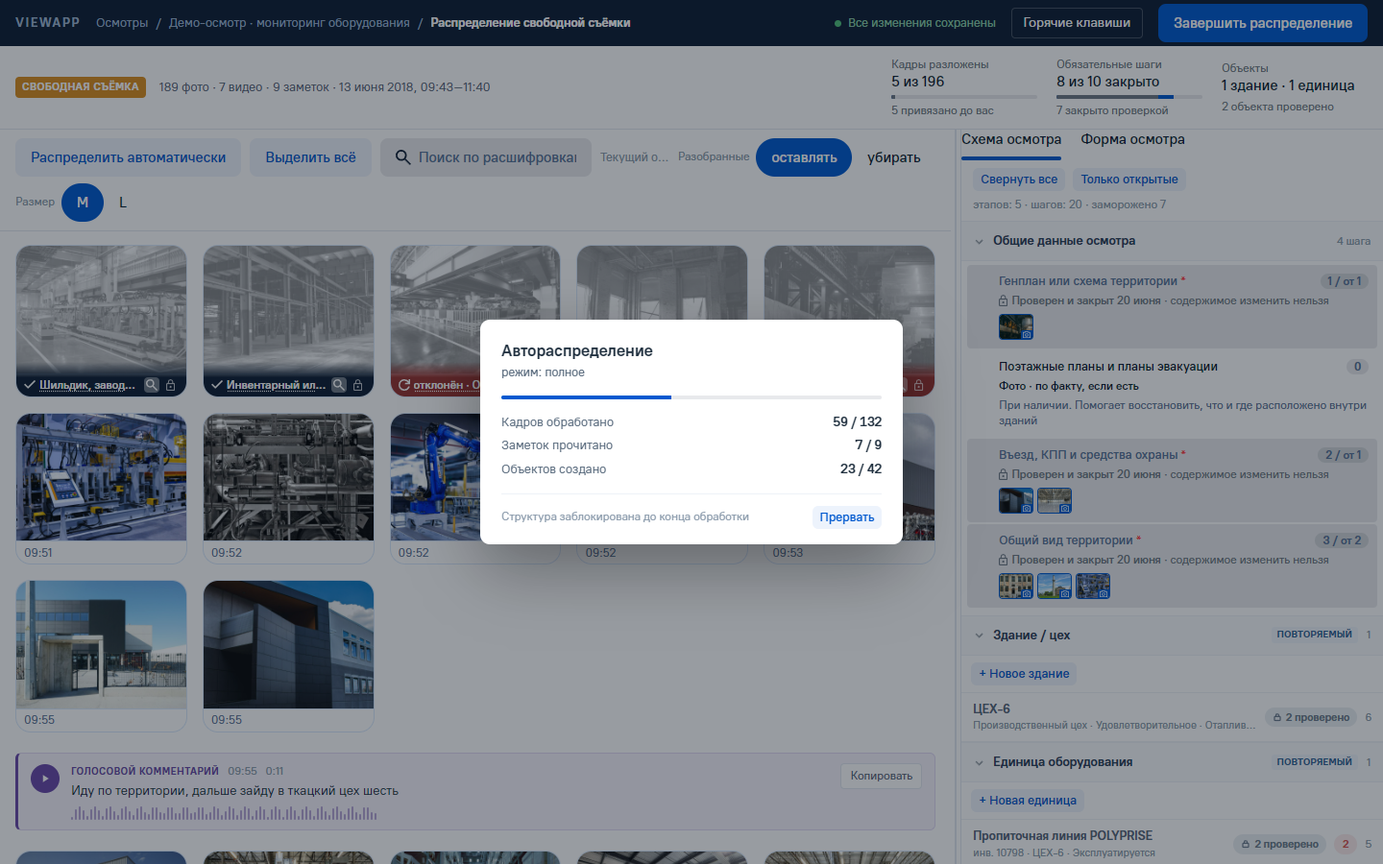
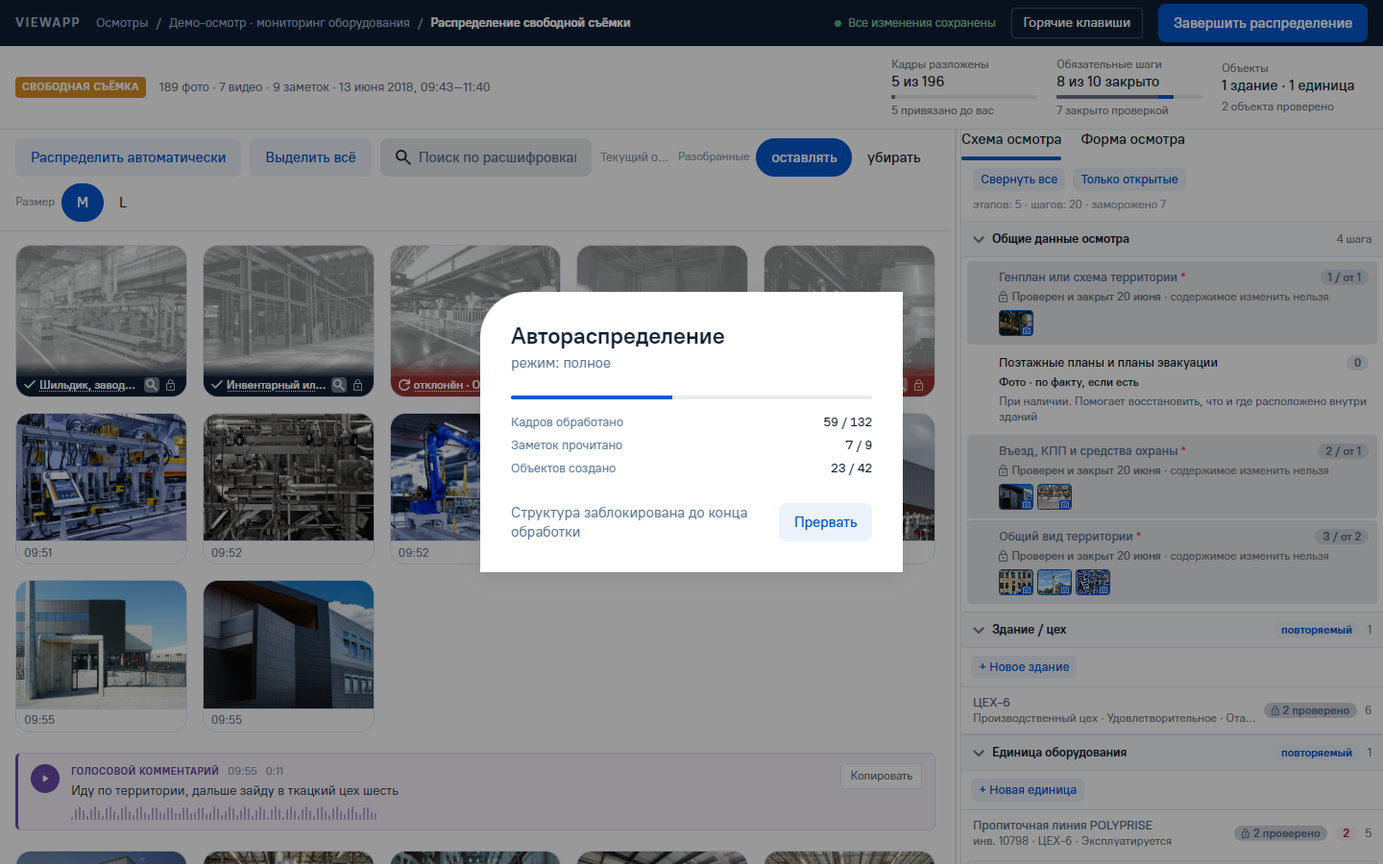
Такт 35, часть 2: документы — итог сборки ModalCard, реестр, решения, состояние
- free-shoot.md: 13.10 — итог сборки, отклонения, приёмка, край против
  замеров кита 1; реестр: № 51, 57 на ките — китом 33, как есть 25;
  рекомендация — форма повтора № 56.
- modal-family.md: решения 1–4 закрыты, Sheet — краевое размещение
  ModalCard; открыто решение 5 и наложение 817:34525.
- open-questions.md: вопрос 35 закрыт; журнал — три решения.
- figma-fixes.md: центральное размещение карточки, подложка и прокрутка,
  фокус у ButtonAction, Kbd; design-debt.md, waves.md, naming.md,
  tokens.md, CLAUDE.md — по решениям.
- chat-protocol.md, handoff.md: такт 35 закрыт; такт 29, часть 2 — стенд
  «История» на ModalCard edge; развилка — форма повтора или «История».
- Скриншоты: free-shoot-pair-modal-*, -states-modal-*, -page-open-progress,
  -page-open-hotkeys, -focus-*-ButtonAction.

diff --git a/docs/chat-protocol.md b/docs/chat-protocol.md
@@ -142,7 +142,7 @@
 
 ---
 
-## Состояние проекта (актуально на 2026-09-24, после тактов 19–28, разбора 29, часть 1, тактов 30–34 и такта 35 — кольцо фокуса и разбор центрального окна)
+## Состояние проекта (актуально на 2026-09-24, после тактов 19–28, разбора 29, часть 1, и тактов 30–35)
 
 ### Проект
 
@@ -150,14 +150,15 @@
 (всё запушено). Nuxt 4 · Tailwind v4 · shadcn-vue поверх Reka UI.
 Перенос ДС Атома завершён: 9 волн, 41 компонент; темы `rososmotr`
 (рабочая) и `atom` (сверочная); `/compare` — наложение на эталоны и
-две автопроверки, базовая линия **153 иконки, 819 текстовых узлов**
-(такт 34 поднял со 146 / 746). Этап 2 обогащения закрыт: полевая обвязка и
+две автопроверки, базовая линия **154 иконки, 886 текстовых узлов**
+(такт 35 поднял со 153 / 819). Этап 2 обогащения закрыт: полевая обвязка и
 `StatusBadge` из архива кита 1, `Chip`, `Slider`, `Dialog`, `Lightbox`,
 `Popover` на Reka (такт 28). Такт 30 добавил три составных компонента
 экрана свободной съёмки без мастера: `FrameTile`, `StepRow` + `StepThumb`,
 `Progress` + `ProgressStat`; такт 32 — `StageSection`, `StageNote`, `RepeatCard`, `RepeatForm`; такт 33 —
 `AssignOption`, `AssignList` (пункт назначения на `SelectItem`); такт 34 — `FrameStage`, `FrameBindBar`, `FrameMeta`,
-`FrameStatus`, слот `aside` у `Lightbox`, тон `success` у `SelectItem`. Долг на дефолте shadcn по `design-debt.md` —
+`FrameStatus`, слот `aside` у `Lightbox`, тон `success` у `SelectItem`; такт 35 — окно-карточка `ModalCard` (размещения
+`edge` = `Sheet` и `center`), `Kbd`, `ShortcutList`, `ProgressCounter`, кольцо фокуса у всех четырёх кнопок кита. Долг на дефолте shadcn по `design-debt.md` —
 `Toast`, `Skeleton`, `Stepper`, `Empty` (собраны, несут `@debt`),
 `Command`/`Combobox` (в коде не собран — строка описывает дыру); `Progress`
 закрыт частично тактом 30 — собран по прототипу VA-9265, мастера нет.
@@ -327,6 +328,9 @@
 - **Решений владельцу 5**: архитектура (`Sheet` отдельно, общее — поведенческий слой);
   подложка; полоса прокрутки (`Scroll` кита 4px); высота кнопок подвала (40 из `Button`);
   стенд части 2 («История» через `?open=history`, нужен перенос `sort`).
+- **С такта 35 решения 1–4 закрыты** (`Sheet` — краевое размещение `ModalCard`, собран). **Такт 29, часть 2
+  теперь — стенд «История» на `ModalCard edge`**: одно решение владельца (`modal-family.md`, раздел 7, решение 5)
+  и Figma MCP для наложения на `817:34525`.
 
 ### Такт 30 — экран «Распределение свободной съёмки» (закрыт)
 
@@ -464,7 +468,7 @@
   на защищённой плашке, метка в полосе), видео картинкой, сноска про архив не переносится, перенос (№ 47) —
   событие наружу.
 
-### Такт 35 — кольцо фокуса у кнопок, разбор центрального окна (стоп-точка)
+### Такт 35 — кольцо фокуса, окно-карточка `ModalCard`, окна прогресса и клавиш (закрыт)
 
 Решения владельца 2026-09-23 (бывшие п. 1–2 «Открыто у владельца»): кольцо фокуса у `Button`, `IconButton`,
 `ButtonArrow` и следующий такт — разбор центрального окна. Разбор — `docs/free-shoot.md`, раздел 13.
@@ -477,6 +481,11 @@
   окно прокручивается целиком, крестика нет, прогресс не закрывается ничем, кроме «Прервать». У кита 1
   центрального размещения нет. Рекомендация — окно-карточка кита 1 `ModalCard` в двух размещениях (`side` —
   это `Sheet` такта 29, `center`) и общие развилки с `Sheet` одним решением. План переноса окон — 4 такта.
+- **Часть 2 — сборка.** Три решения владельца 2026-09-23 по рекомендации (бывшие п. 1–2 «Открыто у владельца»):
+  `ModalCard` в двух размещениях, скругление 48 в обоих; подложка `--overlay-modal` 40%, прокрутка тела `Scroll`
+  4px, кнопки 40 (вопрос 35 закрыт); кольцо у `ButtonAction`. Окна прогресса (№ 51) и «Горячие клавиши» (№ 57)
+  на ките; реестр — китом **33**, как есть **25**. Край против замеров кита 1 — совпадение по всем числам
+  (`free-shoot.md`, 13.10). `/compare` — 154 / 886, провалов нет.
 
 ### Второй конвейер
 
@@ -514,7 +523,7 @@
 
 ### Следующие такты нашего конвейера (по порядку)
 
-1. **Решения владельца по такту 35** — «Открыто у владельца», п. 1; затем сборка каркаса `ModalCard` с прогрессом и клавишами (план — `free-shoot.md`, 13.7).
+1. **Выбор владельца** — «Открыто у владельца», п. 1 (форма повтора № 56 или стенд «История» на `ModalCard edge`).
 2. **Стенд «форма справочника»** — статусная модель: повторяющиеся
    блоки статуса, четыре hex-поля, карта переходов, чек-лист компаний
    из 75 с пагинацией. Скрины у владельца есть.
@@ -528,20 +537,14 @@
 
 ### Открыто у владельца (от чата, 2026-09-23; обновлено тактами 33–35, 2026-09-24)
 
-1. **Решения такта 35 — два** (`free-shoot.md`, 13.8), до них сборки окон нет:
-   - **каркас центрального окна** — рекомендация: окно-карточка кита 1 `ModalCard` (части по мастеру карточки
-     `817:34525` и шапки `864:2747`, корень Reka `Dialog`) в двух размещениях: `side` 642 — это `Sheet`
-     такта 29, `center` 600 и 440 — ширины с прототипа. Цена: центральное размещение у кита 1 не нарисовано,
-     окно по центру с асимметричным радиусом 48, имя `Sheet` → `ModalCard side`. Альтернативы — `Dialog` +
-     размещение «центр» (изобретение геометрии Атома) или свой каркас с геометрией легаси (третья реализация);
-   - **общие развилки окна-карточки** (центр и `Sheet` одним решением; вопрос 35) — рекомендация: подложка
-     `--overlay-modal` `#000` 40% одна на оба размещения и прогресс; прокручивается только тело, полоса —
-     `Scroll` кита 4px; кнопки подвала — `Button` md 40. Цена: расходимся с легаси (окно прокручивается
-     целиком, две подложки 55% и 42%) и с текстом кита 1 «не блокируя»; подвал на 4 ниже дашборда.
-2. **Решение — кольцо фокуса у `ButtonAction`.** Приёмка такта 35: Tab на «Сбросить все» — фокус есть, кольца
-   нет; в решение по трём кнопкам `ButtonAction` не входил. Рекомендация агента — то же кольцо (единый вид
-   фокуса у всех кнопок кита); цена — расширение матрицы ещё одного мастера Атома, строка в `waves.md`.
-   Альтернатива — ждать мастера: у текстовых действий фокус не виден. Строка — `design-debt.md`.
+1. **Развилка — следующий такт.** Рекомендация агента — **форма повтора № 56** (шаг 2 плана `free-shoot.md`, 13.7,
+   1 такт): открывается на каждый повтор, зависимые и обязательные поля — вес выше; порция 4 продолжается на том же
+   экране. Альтернатива — **стенд «История» на `ModalCard edge`** (такт 29, часть 2): одно решение владельца
+   (`modal-family.md`, раздел 7, решение 5 — «История» через `?open=history` на `/my-inspections` с переносом
+   `sort`) и Figma MCP для наложения; цена рекомендации — `Sheet` на живой странице откладывается ещё на такт.
+2. **Наложение `ModalCard edge` на экспорт `817:34525`** — ждёт авторизации Figma MCP в сессии агента (п. 5);
+   до того край сверен с замерами `modal-family.md` числами — совпадение по ширине, скруглению, тени, паддингам,
+   положению заголовка и крестика, зазорам.
 3. **Сверка кольца фокуса с китом 1** — после авторизации Figma MCP в сессии агента (п. 5): открыть спеки
    кнопок кита 1 (`btn_accent` `709:6413`, `btn_secondary` `713:3319`, `btn_outline` `1990:226`,
    `btn_txt` `715:3605`) — если фокус или нажатие с фокусом нарисованы, заменить кольцо значениями кита.
@@ -563,6 +566,11 @@
    FrameMeta · FrameStatus», пары `docs/free-shoot-pair-viewer-*.png`.
    Такт 35: кольцо фокуса у `Button`, `IconButton`, `ButtonArrow` — пройти Tab по `/statuses` и
    `/my-inspections`, кольцо `--ring` 2px вокруг кнопки; мышью его нет (скриншоты — раздел 13.9).
+   Сборка такта 35 (`free-shoot.md`, 13.10): **скругление 48 на центральной карточке — оценить на
+   `/free-shoot/states`** (раздел «ModalCard»; смена на 24 — только отдельным решением); заметка подвала прогресса
+   15/20 переносится на две строки; крестик окна — кнопка с наведением (у мастера голая иконка); клавиши `Kbd` 10/12;
+   полосу прокрутки тела проверить глазом — в снимках headless её не видно. Смотреть: `/free-shoot?open=progress`,
+   `/free-shoot?open=hotkeys`, пары `docs/free-shoot-pair-modal-*.png`.
 5. **Оргмелочи:** незакоммиченная правка `.claude/launch.json` (второй конфиг `nuxt-dev-3001`) —
    рекомендация чата откатить, ответа нет; Figma MCP в сессии агента не авторизован — нужен для
    такта 29, часть 2 (наложение `817:34525`, перенос `sort`).
@@ -572,7 +580,8 @@
 такта 33 (следующий такт) закрыт решением владельца 2026-09-23 — порция 3, такт 34. П. 1–2 редакции
 разбора 34 (три решения такта и цвет пункта «кадр привязан сюда») закрыты решениями владельца
 2026-09-23 и собраны тактом 34. П. 1–2 редакции такта 34 (кольцо фокуса у трёх кнопок и выбор следующего такта) закрыты
-решениями владельца 2026-09-23: кольцо сделано тактом 35, следующим взят разбор центрального окна.
+решениями владельца 2026-09-23: кольцо сделано тактом 35, следующим взят разбор центрального окна. Решения такта 35 (каркас `ModalCard`, общие развилки окна-карточки, кольцо `ButtonAction`) закрыты
+решениями владельца 2026-09-23 и собраны тактом 35, часть 2.
 
 ### Нитки вне конвейера (чат напоминает по протоколу)
 
@@ -600,4 +609,4 @@
   тактом 30), затем составные
   компоненты по списку «чего не хватает фронту» от Ивана.
 
-Ближайший шаг: два решения владельца по такту 35 («Открыто у владельца», п. 1) и решение по кольцу `ButtonAction` (п. 2), затем сборка каркаса `ModalCard` с прогрессом и клавишами
+Ближайший шаг: выбор владельца «Открыто у владельца», п. 1 — форма повтора № 56 или стенд «История» на `ModalCard edge`; приёмка глазом (п. 4) — в первую очередь скругление 48 на центральной карточке

diff --git a/docs/free-shoot.md b/docs/free-shoot.md
@@ -801,18 +801,18 @@ defineProps<{
 | 48 | окно запуска автораспределения: каркас | §12.1–12.4 | как есть | центрального окна у кита нет — `Dialog` полноэкранный (Атом); см. такт 29 |
 | 49 | окно запуска: режимы с прогнозом | §12.1–12.2 | как есть | `RadioGroup` кита — строка с подписью, карточки с прогнозом нет |
 | 50 | кнопки окон: запуск, сводки | §12, §17 | кит: `Button` | — |
-| 51 | окно прогресса: каркас и счётчики | §12.5 | как есть | — |
+| 51 | окно прогресса: каркас и счётчики | §12.5 | новый: `ModalCard` center 440 + `ProgressCounter` | такт 35; закрытие заблокировано (§12.5), раздел 13 |
 | 52 | окно прогресса: полоса | §12.5 | новый: `Progress` | — |
 | 53 | «Прервать» | §12.5–12.6 | кит: `Button` | — |
 | 54 | сводка результата | §12.12 | как есть | — |
 | 55 | сводка завершения | §17.4–17.6 | как есть | — |
 | 56 | окно редактирования формы повтора | §14.4 | как есть, не выведено | — |
-| 57 | окно «Горячие клавиши» | §16 | как есть, не выведено | — |
+| 57 | окно «Горячие клавиши» | §16 | новый: `ModalCard` center 600 + `ShortcutList`, `Kbd` | такт 35; открывается кнопкой «Горячие клавиши» и `?open=hotkeys` |
 | 58 | уведомление с «Отменить» | §10.6 | кит: `Toast`, не выведено | роль совпадает; без логики уведомлять не о чем |
 
-**Счёт** (после такта 34): 58 элементов. Покрыто китом — **31**: 16 существующими компонентами,
-15 новыми — 7 такта 30, 4 такта 32, 2 такта 33 и 2 такта 34 (один из 16 — `Toast` — не выведен). Перенесено
-как есть — **27**, из них 5 не выведены на экран. До такта 34: китом 29, как есть 29; до такта 33 — 27 и 31.
+**Счёт** (после такта 35): 58 элементов. Покрыто китом — **33**: 16 существующими компонентами,
+17 новыми — 7 такта 30, 4 такта 32, 2 такта 33, 2 такта 34 и 2 такта 35 (один из 16 — `Toast` — не выведен).
+Перенесено как есть — **25**, из них 4 не выведены на экран. До такта 35: китом 31, как есть 27.
 
 ### Рекомендация следующей порции
 
@@ -823,7 +823,7 @@ defineProps<{
 | ~~1. Карточка повтора~~ | № 34, 36, 38, 41 и подсказка № 37 | — | **закрыта тактом 32**, раздел 10 |
 | ~~2. Пункт назначения~~ | № 28, 46 | — | **закрыта тактом 33**, раздел 11 |
 | ~~3. Полноэкранный просмотр~~ | № 44–45 | — | **закрыта тактом 34**, раздел 12 |
-| **4. Окна** | № 47–51, 54–57 — все центральные | 7 окон и перенос | **разобрано тактом 35** (раздел 13): каркас — окно-карточка кита 1 в центральном размещении, ждёт решений 1–2 раздела 13.8; план — 4 такта: каркас с прогрессом и клавишами → форма повтора → запуск с карточкой режима → сводки и перенос (13.7) |
+| **4. Окна** | № 47–51, 54–57 — все центральные | 7 окон и перенос | **такт 35:** каркас `ModalCard` собран, прогресс (№ 51) и «Горячие клавиши» (№ 57) на ките. Остались по плану 13.7: форма повтора № 56 (1 такт) → запуск № 48–49 с карточкой режима и блоком сводки (1 такт) → сводки № 54–55 и перенос № 47 (0.5 такта) |
 | 5. Тёмная шапка | № 2–6 | 1 × 5 элементов | вопрос дизайнерам: подача кнопки и крошек на тёмном |
 
 **После такта 34 порции реестра упираются во внешнее.** Порция 4 «Окна» (№ 47–57, все центральные) ждёт
@@ -1733,7 +1733,7 @@ FrameStatus { assigned: boolean }                             // метка «р
 
 ### 13.8. Решения — стоп-точка
 
-**Решений владельцу: 2.** Ещё 5 развилок закрыты фактом, правилом или прецедентом — таблица ниже.
+**Решений владельцу: 2** — приняты владельцем 2026-09-23 по рекомендации; вдобавок решение 3 — кольцо фокуса у `ButtonAction`. Сборка — раздел 13.10. Ещё 5 развилок закрыты фактом, правилом или прецедентом — таблица ниже.
 
 #### Решение 1 — каркас центрального окна: карточка кита 1 во втором размещении
 
@@ -1797,3 +1797,65 @@ Figma MCP в сессии не авторизован»; сверка — пун
 **Находка.** У `ButtonAction` (мастер Атома `ButtonAction` `6626:56755` + `1028:8221`) кольца тоже нет:
 Tab на «Сбросить все» (`/my-inspections`) — фокус есть, кольца нет. В решение 1 он не входил — расширение
 матрицы ещё одного мастера, вопрос владельцу («Открыто у владельца»).
+
+### 13.10. Итог сборки — такт 35, часть 2
+
+**Решения владельца 2026-09-23**, все по рекомендации 13.8: 1 — окно-карточка кита 1 `ModalCard` в двух
+размещениях, скругление 48 только слева сверху в обоих; 2 — подложка `--overlay-modal` `#000` 40% одна на всё,
+прокручивается только тело с полосой `Scroll` 4px, кнопки подвала `Button` md 40 (вопрос 35 закрыт);
+3 — кольцо фокуса у `ButtonAction`.
+
+**Собрано.** `ModalCard`, `ModalCardContent`, `ModalCardHeader`, `ModalCardBody`, `ModalCardFooter`
+(`ui/modal-card/`); `Kbd`, `KbdText`, `ShortcutList` (`ui/kbd/`); `ProgressCounter` (`ui/progress/`); кольцо
+`ButtonAction`; «Enter» на плашке просмотра — теперь `Kbd surface="card"`. Токены `--radius-4xl` 48,
+`--shadow-modal`, `--overlay-modal`, `--container-modal-edge` 642, `--container-modal` 600,
+`--container-modal-narrow` 440. Экран `/free-shoot`: окно прогресса (`?open=progress`) и «Горячие клавиши»
+(`?open=hotkeys`, кнопка «Горячие клавиши» в шапке) — целиком на ките, `data-asis` сняты. Остальные окна —
+«как есть» до переноса с содержимым (13.7). Матрицы — раздел «ModalCard» на `/free-shoot/states`.
+
+| Отклонение или находка | Как | Почему |
+|---|---|---|
+| заметка подвала прогресса переносится на две строки | «Структура заблокирована до конца обработки» 15/20 в окне 440 | текст подвала кита — 15/16 (вне шкалы) → 15/20; у прототипа 12 в одну строку |
+| крестик — `IconButton ghost sm` с глифом 13 `--foreground` | у мастера голая иконка без состояний | правило «у всего интерактивного системное наведение»; кольцо фокуса — у `IconButton` |
+| клавиша — компонент `Kbd` | 16 высотой, 10/12 bold, `--tag`; на `--secondary`-кнопке — `--card` | мастера нет (дыра «клавиша», такт 30); геометрия — прецедент номера клавиши строки шага |
+| полоса прокрутки тела в снимках headless не видна | правило `::-webkit-scrollbar` 4px, дорожка `--border-neutral`, бегунок `--muted-foreground` — в таблице стилей | браузер без экрана рисует накладные полосы; проверить глазами на `/free-shoot/states` |
+| **скругление 48 на центральной карточке** | по решению 1 — в обоих размещениях | оговорка чата: на 600 и 440 может смотреться тяжело — к приёмке глазом; смена на 24 — только отдельным решением |
+
+| Проверка | Результат |
+|---|---|
+| регистрация и консоль | после перезапуска сервера нераспознанных тегов 0; ошибок и `Vue warn` нет на `/free-shoot` (в т. ч. `?open=progress`, `?open=hotkeys`), `/free-shoot/states`, `/compare`, `/my-inspections`, `/statuses`, `/insure-types`, `/` |
+| поведение | центр: 20 нажатий Tab — ни одного выхода из окна; Esc и клик мимо закрывают, фокус возвращается на кнопку-открыватель; прогресс: крестика нет, после Esc и клика мимо окно открыто, «Прервать» закрывает; на экране Enter по «Горячим клавишам» → окно, Esc → фокус на кнопке |
+| подложка | computed `rgba(0, 0, 0, 0.4)`; белый под окном — 153 вместо 255 (60%) |
+| край против замеров `modal-family.md` | см. таблицу ниже |
+| шрифты | заголовок 24/28 700, подзаголовок 15/20 400, счётчики 13/16 400 и 500, заметка подвала 15/20, кнопка 15/20 500, список клавиш 15/20, `Kbd` 10/12 700 — PT Root UI, кегли по шкале |
+| наведение, CDP | крестик: прозрачный → `#EDF3FC`; главная кнопка подвала `#0059CF` → `#337AD9` |
+| кольцо `ButtonAction` | Tab на «Сбросить все» (`/my-inspections`) и «Все поля (11)» (`/free-shoot`) — кольцо `--ring`; мышью — нет; в покое все прежние кнопки `/compare` совпали с «до» (517 из 517), прибавились только новые представители |
+| `/compare` | **154 иконки, 886 текстовых узлов** (было 153 и 819), провалов нет |
+| хардкод | `grep` hex и px по классам и стилям `ui/modal-card/`, `ui/kbd/`, `ProgressCounter` — пусто |
+
+**Краевое размещение против замеров кита 1** (`modal-family.md`, разделы 1–4; живое окно на `/free-shoot/states`,
+окно браузера 1440×900). Наложение на экспорт `817:34525` — после авторизации Figma MCP.
+
+| Что | Кит 1 | `ModalCard edge` |
+|---|---|---|
+| ширина, отступы от края | 642, справа 0, сверху 0, во всю высоту | 642, справа 0, сверху 0, 900 |
+| скругление | верхний левый 48, остальные 0 | 48 / 0 / 0 / 0 |
+| тень | 0/4/20 `#0e1e33` 10% | `rgba(14, 30, 51, 0.1) 0 4px 20px` |
+| паддинг карточки | 32 / 16 | 32 / 16 |
+| заголовок от края | 32 | 32 |
+| заголовок | 24/28 Bold | 24/28 700 |
+| крестик | бокс 24, правый край в 28 от края | 24×24, 28 |
+| зазор блоков | 24 | 24 шапка → тело, 24 тело → подвал |
+| контент тела от края | 32 | 32 |
+| кнопка подвала | 44 у реализаций, 40 по решению 2 | 40, правый край в 32 от края |
+| прокрутка | только тело | тело прокручено на 400 — шапка не сдвинулась |
+
+Скриншоты: экран — [open-progress](free-shoot-page-open-progress.png), [open-hotkeys](free-shoot-page-open-hotkeys.png);
+стенд — [центр 600 и 440](free-shoot-states-modal-center.png), [край 642](free-shoot-states-modal-edge.png); пары
+«прототип / кит» 2x — [прогресс](free-shoot-pair-modal-progress.png), [горячие клавиши](free-shoot-pair-modal-hotkeys.png);
+кольцо `ButtonAction` — [/my-inspections](free-shoot-focus-myinspections-ButtonAction.png), [/free-shoot](free-shoot-focus-freeshoot-ButtonAction.png).
+
+**Рекомендация следующего такта** — шаг 2 плана 13.7, **форма повтора № 56** (1 такт): открывается на каждый
+повтор, зависимые и обязательные поля — вес выше, чем у стенда «История», и порция 4 продолжается на том же
+экране. Альтернатива — стенд «История» на `ModalCard edge` (`modal-family.md`, решение 5): ждёт решения владельца
+и переноса `sort`. Выбор — «Открыто у владельца».

diff --git a/docs/handoff.md b/docs/handoff.md
@@ -16,7 +16,7 @@
 **Перенос Атома закончен, все девять волн приняты. Этап 2 — обогащение — закрыт целиком.**
 Идёт **тест кита на живой странице**: разбор ниже, история этапов — дальше по документу.
 
-## Где мы сейчас: тест кита на живых страницах завершён, такты 1–28 и 30–34 закрыты, 29 и 35 — разбор
+## Где мы сейчас: тест кита на живых страницах завершён, такты 1–28 и 30–35 закрыты, 29 — разбор
 
 Перенос и обогащение позади. **Тест кита на живых страницах закрыт.** Две страницы:
 
@@ -78,6 +78,7 @@
 | **34** — разбор: полноэкранный просмотр (стоп-точка) | документы | порция 3 реестра (№ 44–45), решение владельца 2026-09-23; сборки нет. Прототип снят целиком (`free-shoot-viewer-*.png`): каркас, метаданные, плашка в семи видах и вспышка. `Lightbox` кита — та же роль, но без боковой панели (снаружи не приставить — ловушка фокуса `Dialog`); замер ширины панели — минимум 418. **Решений владельцу 3**: каркас (`Lightbox` + слот), ширина панели (рекомендация 440), «или нажмите 1–N» — вопрос 37. Разбор — `free-shoot.md`, раздел 12 |
 | **34, часть 2** — сборка полноэкранного просмотра | `/free-shoot`, `/free-shoot/states`, `/compare` | четыре решения владельца 2026-09-23: `Lightbox` + слот `aside`, панель 440 (`--container-side-panel`), «1–N» только при текущем объекте, тон `success` у `SelectItem` для «кадр привязан сюда». `FrameStage`, `FrameBindBar`, `FrameMeta`, `FrameStatus` (`ui/frame-viewer/`); № 44–45 на ките, реестр 31 / 27. Исправлен дефект `FrameTile`: кнопки плитки не нажимались с клавиатуры. Кольца фокуса у `Button`/`IconButton`/`ButtonArrow` нет — вопрос владельцу. `/compare` 153 иконки, 819 текстовых узлов. Разбор и итог — `free-shoot.md`, раздел 12 |
 | **35** — кольцо фокуса, разбор центрального окна (стоп-точка) | кнопки кита, документы | решения владельца 2026-09-23. **Кольцо фокуса** у `Button`, `IconButton`, `ButtonArrow` — `focus-visible:ring-2` `--ring` (у кит 1 фокуса нет, прецедент тактов 30–33); в покое 517 кнопок `/compare` не изменились. У `ButtonAction` кольца нет — вопрос владельцу. **Центральное окно:** прототип снят (600 / 440, окно прокручивается целиком, прогресс не закрывается); у кита 1 центрального нет. Решений владельцу 2: каркас `ModalCard` (`side` = `Sheet`, `center`) и общие развилки с `Sheet`. План переноса окон — 4 такта. Разбор — `free-shoot.md`, раздел 13 |
+| **35, часть 2** — окно-карточка `ModalCard`, окна прогресса и клавиш | `/free-shoot`, `/free-shoot/states`, `/compare` | три решения владельца 2026-09-23: `ModalCard` в размещениях `edge` (642 = `Sheet`) и `center` (600 / 440), скругление 48 слева сверху; подложка `--overlay-modal` 40%, прокрутка только тела (`Scroll` 4px), кнопки 40 — вопрос 35 закрыт; кольцо фокуса у `ButtonAction`. `ui/modal-card/`, `ui/kbd/` (`Kbd`, `KbdText`, `ShortcutList`), `ProgressCounter`. Окна № 51 и № 57 на ките; реестр 33 / 25. Край против замеров кита 1 — совпадение. `/compare` 154 иконки, 886 текстовых узлов. Итог — `free-shoot.md`, 13.10 |
 
 ### Такт 20 закрыт: паттерн закреплён
 
@@ -509,8 +510,8 @@ npm install && npm run dev
 
 Обе проверки запускаются **не в `onMounted`, а тактом позже** (`nextTick` плюс таймер): всё, что
 рисуется через `Presence` и порталы — окно, лайтбокс, поповеры, — появляется после монтирования
-страницы и раньше в выборку не попадало. Счётчик при этом сам по себе результат: сейчас 819
-текстовых узлов и 153 иконки (такт 34), и если после правок он не растёт вместе с витриной — проверка
+страницы и раньше в выборку не попадало. Счётчик при этом сам по себе результат: сейчас 886
+текстовых узлов и 154 иконки (такт 35), и если после правок он не растёт вместе с витриной — проверка
 ослепла, а не «узлов не прибавилось».
 
 Две автопроверки внизу `/compare`. **Шрифты:** обходит текстовые узлы внутри `[data-slot]`,

diff --git a/docs/figma-fixes.md b/docs/figma-fixes.md
@@ -312,9 +312,11 @@
 |---|---|---|
 | **мастер `Progress`** | в ките нет детерминированного прогресса вовсе. Первый прогресс кита собран с прототипа: дорожка 4, своя доля брендом, чужая доля — работа до текущего пользователя — нейтралью от начала полосы, «готово» — success | `ui/progress/`, стенд, раздел «Progress и ProgressStat» |
 | **счётчик-пилюля шага** | собран как своя часть `StepRow` на геометрии `Badge sm` с мягкими тонами (`*-surface` + `*-strong`). У мастера `Badge` мягких тонов нет — при появлении мастера пилюли её стоит свести к нему | `ui/step-row/index.ts`, `stepCounterVariants` |
-| **клавиша** | номер клавиши у строки шага (16×16, `--tag`) собран без мастера: компонента «клавиша» (`kbd`) нет ни в ките 1, ни в Атоме | `StepRow`, `step-row-key` |
+| **клавиша** | номер клавиши у строки шага (16×16, `--tag`) собран без мастера: компонента «клавиша» (`kbd`) нет ни в ките 1, ни в Атоме. С такта 35 — компонент `Kbd` той же геометрии (окно «Горячие клавиши», «Enter» на плашке просмотра) | `StepRow`, `step-row-key`, `ui/kbd/` |
 | **строка группы панели** (этап) | такт 32: `Accordion` Атома — раздел страницы с заголовком 24/20; для строки группы 13 в панели 440 с меткой и счётом собран `StageSection` по прототипу | `ui/stage/` |
-| **состояние фокуса у кнопок** | такт 35, решение владельца 2026-09-23: у `Button` `57:340`, `ButtonSimple` `110:1566`, `ButtonArrow` `1938:12858` и у кнопок кита 1 (`btn_accent` `709:6413`: Default / Hover / Pressed / Dissabled / not_active) состояния фокуса нет — клавиатурный пользователь не видит, где он. В коде — кольцо 2px `--ring` только по `focus-visible`. Просим отрисовать фокус в мастерах кнопок | `ui/button`, `ui/icon-button`, `ui/button-arrow` |
+| **окно-карточка по центру** | такт 35, решение владельца 1: центральное размещение карточки `card` `817:34525` в разобранных узлах кита 1 не подтверждено ни одним экраном; ширины 600 и 440 взяты с прототипа VA-9265. Скругление 48 оставлено одним углом, как у края. Просим нарисовать центральное размещение карточки и решить её скругление (у «Экспорта в Excel» — 24) | `ui/modal-card/` |
+| **подложка, прокрутка и кнопки окна-карточки** | такт 35, решение владельца 2: подложка `#000` 40% — против текста кита 1 «не блокируя» `817:34365`; просим завести переменную подложки в `mode`. Прокручивается только тело, полоса — `Scroll` `815:30416` 4px (реализации дашборда — `scroll_default` 16). Кнопки подвала 40 (реализации — 44). Легаси-прототип прокручивает окно целиком и держит две подложки (55% и 42%) — от легаси отходим | `ui/modal-card/` |
+| **состояние фокуса у кнопок** | такт 35, решения владельца 2026-09-23: у `Button` `57:340`, `ButtonSimple` `110:1566`, `ButtonArrow` `1938:12858`, с части 2 — и у `ButtonAction` `6626:56755` + `1028:8221` и у кнопок кита 1 (`btn_accent` `709:6413`: Default / Hover / Pressed / Dissabled / not_active) состояния фокуса нет — клавиатурный пользователь не видит, где он. В коде — кольцо 2px `--ring` только по `focus-visible`. Просим отрисовать фокус в мастерах кнопок | `ui/button`, `ui/icon-button`, `ui/button-arrow` |
 | **слот боковой панели у `LightBox`** | такт 34, решение владельца 1: полноэкранному просмотру экрана нужна панель метаданных и списка шагов, у композиции Атома `8867:69956` её нет. В коде — слот `aside` внутри окна, 440, линия слева | `ui/lightbox/` |
 | **тон успеха у выбранной строки `ListItem`** | такт 34, решение владельца 4: «распределён» одного цвета на плитке, в пункте списка и на плашке просмотра. В коде — `SelectItem tone="success"`: `--success-surface`, текст `--success-strong`, рамка 1px `--success` | `ui/select/SelectItem.vue` |
 | **нижняя плашка просмотра** | такт 34: четыре состояния §11.2, вспышка §11.3, подбор — по прототипу | `ui/frame-viewer/` |

diff --git a/docs/open-questions.md b/docs/open-questions.md
@@ -872,7 +872,13 @@ Hover и error у Атома нарисованы **картинками в до
 | **(б) одна строка + «+N»** | первые компании в строку, остаток — счётчиком с тултипом-списком | не всё видно сразу — против потребности владельца |
 | **(в) компания как `FilterChip`** | ячейка короткая, компания становится фильтром | ячейка перестаёт показывать набор, превращается в вход в фильтр |
 
-## Такт 29, вопрос 35: 🔴 Подложка под боковой панелью — кит говорит «не блокируя», дашборд затемняет
+## Такт 29, вопрос 35: 🟢 Подложка под боковой панелью — закрыт решением владельца 2026-09-23
+
+**Решение владельца, 2026-09-23: затемнение** — `--overlay-modal` `#000` 40% по экрану дашборда `30957:19948`,
+одно значение на оба размещения окна-карточки и на прогресс; окно модальное. Расхождение с текстом кита 1
+«не блокируя» — `figma-fixes.md`. Собрано тактом 35, часть 2 (`ModalCard`).
+
+### Исходная формулировка
 
 > **Такт 35:** вопрос расширен на центральное окно экрана свободной съёмки — у прототипа (легаси) две
 > подложки, `#09121F` 55% у окон `modal()` и 42% у прогресса. Выносится владельцу одним решением на оба
@@ -987,3 +993,6 @@ Hover и error у Атома нарисованы **картинками в до
 | 2026-09-23 | Пункт «кадр привязан сюда» | тон успеха: расширение матрицы `ListItem` (`SelectItem tone="success"`) | Михаил |
 | 2026-09-23 | Кольцо фокуса у `Button`, `IconButton`, `ButtonArrow` | `focus-visible:ring-2` `--ring` — прецедент тактов 30–33; у кнопок кита 1 фокуса по инвентарю нет, сверка значений — после авторизации Figma MCP | Михаил |
 | 2026-09-23 | Следующий такт после 34 | разбор центрального окна (порция 4 «Окна»); `Sheet` откладывается | Михаил |
+| 2026-09-23 | Такт 35: каркас окна | окно-карточка кита 1 `ModalCard` в размещениях `edge` (642, это `Sheet`) и `center` (600 / 440 с прототипа); скругление 48 слева сверху в обоих | Михаил |
+| 2026-09-23 | Такт 35: общие развилки окна-карточки (вопрос 35) | подложка `--overlay-modal` 40% одна на всё; прокручивается только тело, полоса `Scroll` 4px; кнопки подвала `Button` md 40 | Михаил |
+| 2026-09-23 | Кольцо фокуса у `ButtonAction` | то же, что у трёх кнопок: `focus-visible:ring-2` `--ring` | Михаил |

diff --git a/docs/design-debt.md b/docs/design-debt.md
@@ -281,9 +281,9 @@ grep -rn "@debt" app/components
 | **карточка повтора** | `RepeatCard`: состояния текущий, предложено, N проверено, ошибки, подсвечен связью | мастер карточки повтора с этими состояниями |
 | **компактная форма** | `RepeatForm`: пары «подпись — значение», источники «распознано» и «по умолчанию», группы | мастер формы-просмотра («ключ — значение») |
 
-## Такт 34 — кольцо фокуса у кнопок (закрыто тактом 35, кроме `ButtonAction`)
+## Такт 34 — кольцо фокуса у кнопок (закрыто тактом 35)
 
 | Что | На чём стоит | Что нужно |
 |---|---|---|
 | **фокус с клавиатуры у `Button`, `IconButton`, `ButtonArrow`** | ничего: у мастеров Атома (`57:340`, `110:1566`, `1938:12858`) состояния фокуса нет, в коде кольца нет. У составных компонентов тактов 30–33 кольцо есть — `focus-visible:ring-2` `--ring` (`StepThumb`, `RepeatCard`, `StageSection`) | ~~отрисовать фокус в мастерах; до того — решение владельца~~ **Закрыто тактом 35** решением владельца 2026-09-23: кольцо `focus-visible:ring-2` `--ring` у трёх кнопок, в покое кнопки не меняются (517 кнопок `/compare` — 0 различий). Запрос дизайнерам — `figma-fixes.md` |
-| **фокус с клавиатуры у `ButtonAction`** | ничего: у мастеров Атома `6626:56755` + `1028:8221` фокуса нет; решением такта 35 не охвачен | решение владельца — переносить ли то же кольцо (расширение матрицы ещё одного мастера). Найдено приёмкой такта 35: Tab на «Сбросить все» (`/my-inspections`) |
+| **фокус с клавиатуры у `ButtonAction`** | ничего: у мастеров Атома `6626:56755` + `1028:8221` фокуса нет; решением такта 35 не охвачен | ~~решение владельца~~ **Закрыто тактом 35, часть 2** решением владельца 2026-09-23: то же кольцо; в покое кнопки `/compare` не изменились. Найдено приёмкой такта 35: Tab на «Сбросить все» (`/my-inspections`) |

diff --git a/docs/naming.md b/docs/naming.md
@@ -619,7 +619,13 @@ License), 800×600, 4:3 — кроп на стороне Unsplash; файлы и
 | Правило | Почему |
 |---|---|
 | **У `Button`, `IconButton`, `ButtonArrow` фокус с клавиатуры — кольцо 2px `--ring` по `focus-visible`** | решение владельца 2026-09-23; прецедент составных компонентов тактов 30–33. Только `focus-visible` — мышью и в покое кнопка прежняя |
-| **Рабочее имя окна-карточки кита 1 — `ModalCard`** (размещения `side` и `center`), до решения владельца | имя семейства кита 1 «Modal card»; предложение `free-shoot.md`, 13.8, решение 1 |
+| **Окно-карточка кита 1 — `ModalCard`**, размещения `edge` (642, это `Sheet` такта 29) и `center` (`size` `md` 600, `sm` 440) | имя семейства кита 1 «Modal card»; решение владельца 1 такта 35. Части — `ModalCardContent`, `ModalCardHeader`, `ModalCardBody`, `ModalCardFooter` (`ui/modal-card/`) |
+| **`closable=false` — окно закрывается только своими кнопками** | нет крестика, Esc и клик мимо не действуют: прогресс автораспределения, §12.5 |
+| **Подложка окна-карточки — `--overlay-modal`, одна на оба размещения** | решение владельца 2, вопрос 35 |
+| **Клавиша — `Kbd`**; `KbdText` — строка с клавишами в квадратных скобках; `ShortcutList` — список сочетаний (`ui/kbd/`) | имя `Kbd` — каноническое у shadcn-vue; мастера нет, геометрия — номер клавиши строки шага |
+| **Строка счётчика прогресса — `ProgressCounter`** (`ui/progress/`) | «Кадров обработано 31 / 132», §12.5 |
+| **Оснастка `?open=hotkeys`** на `/free-shoot` — окно «Горячие клавиши» | по правилу оснастки: не продукт |
+| **У `ButtonAction` фокус — то же кольцо, что у трёх кнопок** | решение владельца 3 такта 35 |
 
 ---
 

diff --git a/docs/tokens.md b/docs/tokens.md
@@ -410,6 +410,17 @@ provenance описывает выбор **слота**: `прямой` — со
 | `--container-side-panel` | `440px` | ширина боковой панели экрана VA-9265: панель структуры и панель полноэкранного просмотра, утилита `w-side-panel` | **решение владельца 2026-09-23**: ширина панели структуры §7 (прототип v17 `.work`); замер такта 34 — минимум 418 |
 | `--duration-bind-flash` | `820ms` | вспышка нижней плашки «Распределено» | спека VA-9265 §11.3; длительность держит `FrameBindBar` по прецеденту `--duration-flash` |
 
+#### Такт 35 — окно-карточка кита 1
+
+| Токен | Значение | Роль | Provenance |
+|---|---|---|---|
+| `--radius-4xl` | `48px` | скругление окна-карточки, только верхний левый угол | кит 1, `card` `817:34525` |
+| `--shadow-modal` | `0 4px 20px 0 #0e1e331a` | тень окна-карточки | кит 1, `card` `817:34525`: `DROP_SHADOW` 0/4/20 `#0e1e33` 10% |
+| `--overlay-modal` | `#00000066` | подложка под окном-карточкой, одна на оба размещения | **решение владельца 2026-09-23** (вопрос 35): экран `SchemeDrawer` `30957:19948`, в `mode` переменной нет |
+| `--container-modal-edge` | `642px` | ширина краевого размещения (`Sheet`) | кит 1, `card` `817:34525` |
+| `--container-modal` | `600px` | ширина центрального окна | прототип VA-9265 `.mbox` — у кита 1 центрального размещения нет |
+| `--container-modal-narrow` | `440px` | ширина окна прогресса | прототип VA-9265 `.wbox` |
+
 #### Проверки приёмки
 
 | Проверка | Результат |

diff --git a/CLAUDE.md b/CLAUDE.md
@@ -360,7 +360,7 @@ Headless-браузер снимает страницу **от начала до
 умеет. Поэтому состояния для снимков задаются параметрами адреса, и они помечены в коде как
 оснастка приёмки: `?open=`, `?only=`, `?view=`, `?filters=`,
 `?selected=`, `?rows=`, `?scroll=`, `?q=`, `?actions=demo`, `?values=demo`, `?state=` (экран
-`/free-shoot`: `link`, `flash`, `tooltip`, `drop`), `?open=` (с такта 34 и `viewer-flash`) и `?view=review`, `?tab=form`, `?asis=mark` там же — список в `docs/naming.md`. В продукт они не идут.
+`/free-shoot`: `link`, `flash`, `tooltip`, `drop`), `?open=` (с такта 34 и `viewer-flash`, с такта 35 — `hotkeys`) и `?view=review`, `?tab=form`, `?asis=mark` там же — список в `docs/naming.md`. В продукт они не идут.
 
 Наведение адресом не задать — у компонента для этого проп-оснастка `demoHover` (`FrameTile`,
 `StepRow`, `StepThumb`, такт 30; `AssignOption`, такт 33) и `tooltipOpen` у `FrameTile`: они повторяют вид наведения и
